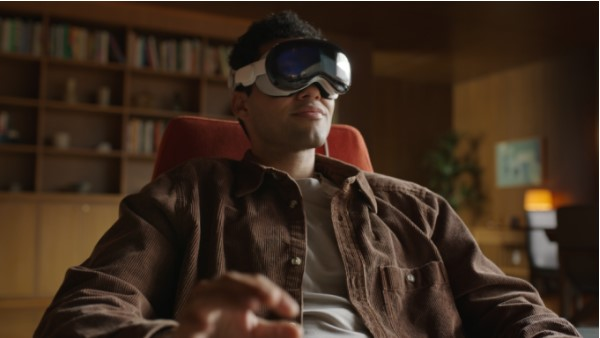
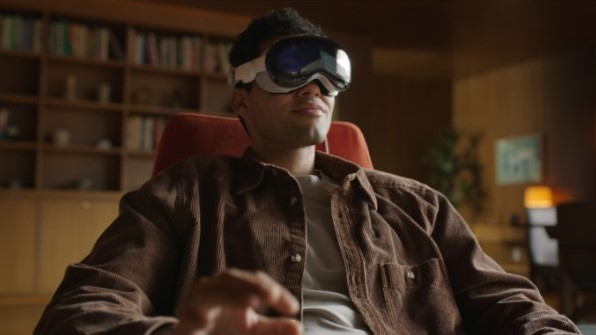
Information to "mudelid" added, pic.res. changed

diff --git a/mudelid.html b/mudelid.html
@@ -26,26 +26,54 @@
     </header>
     <main>
         <h1>Mudelid</h1>
+        <p>Sellel leheküljel antakse ülevaade erinevatest VR-mudelitest. Nagu alguses mainitud, ei ole VR ainult prillid, vaid ka muud seadmed. Kuid arvutite ja telefonide ülevaatamisel pole mõtet, sest neid teavad juba kõik. Palju huvitavam on vaadata erinevaid VR-prillide mudeleid. Valisime teile välja mõned mudelid, mis meie arvates väärivad tähelepanu.</p>
         
         <h2>HTC VIVE Pro 2</h2>
         <img src="pictures/htc-vive-pro-2.jpg" alt="vive.com" height="400" class="pilt">
-        <p>Hinnaklass: Kõrge</p>
-        <p>Koduleht: <a href="https://www.vive.com/us/product/vive-pro2/overview/">vive.com</a></p>
-
-        <p>Resolutsioon: 5K (2400x2400) (silma kohta)</p>
+        <p>Tüüp: Fully-Immersive VR</p>
+        <p>Hinnaklass: Kõrge (1539€)</p>
+        <p>Koduleht: <a href="https://www.vive.com/eu/product/vive-pro2-full-kit/overview/">vive.com</a></p>
+        <p>Resolutsioon: 4896 x 2448 (silma kohta)</p>
         <p>Värskendussagedus: 120 Hz</p>
-        <p>Liikumisandurid: 6DOF</p>
-        <p>Kaabli pikkus: 5 m (16 ft)<br>
-            Juhtmevaba: Ei</p>
-        <p>Lisaseadmed komplektis: Puuduvad</p>
+        <p>Kaabli pikkus: 5 m<br>
+            Juhtmevaba: Ei<br>
+            Portatiivne: Ei
+        </p>
         <p>Kõrvaklapid: Jah (On-Ear)<br>
             Mikrofon: Jah (Sisseehitatud)<br>
 
         </p>
         <p>Kirjeldus: HTC VIVE Pro 2 on võimekas VR peakomplekt, mille kõrge resolutsioon ja värskendussagedus tagavad tipptasemel kogemuse. Lisaks on mõeldud
-            ergonoomilisusele. VIVE Pro 2 on reguleeritav nii pea suuruse poolest kui ka silmade laiuse poolest, et vähendada silmade väsimust.<br>
-            HTC VIVE Pro 2 kahjuks räägib kõrge hind ning asjaolu, et peakomplektiga ei tule kaasa lisaseadmeid.
+            ergonoomilisusele. VIVE Pro 2 on reguleeritav nii pea suuruse poolest kui ka silmade laiuse poolest, et vähendada silmade väsimust. 
+            Kahjuks on selline võimas VR-komplekt väga kallis. Lisaks sellele, et komplekti hind on 1500 eurot, on vaja ka väga võimsat arvutit,
+            et nii suure resolutsiooniga mugavalt mängida. Aga kui te seda komplekti ostate, siis on teil kõige mugavam ja nauditavam kogemus,
+            mida VR-prillide turul saada saab.
         </p>
+
+        <h2>Meta Quest 3</h2>
+        <img src="pictures/Quest3.jpg" alt="https://www.ign.com/articles/meta-quest-3-review" height="400" class="pilt">
+        <p>Tüüp: Augmented AR/Fully-Immersive VR</p>
+        <p>Hinnaklass: Keskmine (~600€)</p>
+        <p>Koduleht: <a href="https://www.meta.com/quest/quest-3/">meta.com</a></p>
+        <p>Resolutsioon: 2400x2400 (silma kohta)</p>
+        <p>Värskendussagedus: 120 Hz</p>
+        <p>Kaabli pikkus: 5 m (on vaja eraldi osta)<br>
+            Juhtmevaba: Jah<br>
+            Portatiivne: Jah</p>
+        <p>Kõrvaklapid: Jah (Sisseehitatud)<br>
+            Mikrofon: Jah (Sisseehitatud)<br>
+        </p>
+        <p>Kirjeldus: Meta Quest 3 on Meta uus virtuaal- ja segareaalsuse peakomplekt, mis tuli välja paar kuud tagasi. Need on esimesed VR-prillid turul, 
+            mis võimaldavad VR-režiimide vahetamist. Sul on võimalus näha reaalset reaalsust ja samal ajal juhtida virtuaalreaalsust. 
+            Näiteks saab nõudepesu ajal YouTube'i sisse lülitada ja panna sellega aknast kuhugi, kuhu tahad. Meta poes on juba palju rakendusi ja mänge, 
+            mis võimaldavad segareaalsusega interakteeruda, alates joonistamisest kuni projekteerimiseni. Need prillid on ka täiesti portatiivsed: sa ei pea 
+            neid prille mängimiseks või millekski muuks kasutamiseks ühendama juhtmega oma arvutiga. Ja isegi kui sa tahad neid arvutiga ühendada, 
+            saad seda teha wifi kaudu. Kahjuks on neil prillidel ka mõned miinused. Esimene miinus on aku. See on halvasti optimiseeritud ja ilma 
+            laadimiseta töötavad prillid umbes 2-2,5 tundi. Isegi arvutiga ühendatuna tühjenevad prillid järk-järgult, kuigi väga aeglaselt. 
+            Portatiivses režiimis ei ole palju häid mänge: võimsaid mänge ilma arvutita need prillid käivitada ei suuda. Kaamerad, mille kaudu 
+            reaalset maailma vaadatakse, ei ole parimad: pilt on väga teraline. Aga kokkuvõtteks võib öelda, et need prillid on oma raha väärt, sest 
+            neil on palju rohkem plusse. </p>
+
         </main>
     </main>
 </body>

diff --git a/semi-immersive.html b/semi-immersive.html
@@ -30,14 +30,14 @@
 
         <h2>Mis on Semi-Immersive VR?</h2>
         <p>Semi-Immersive VR tehnoloogiad on sageli kasutusel hariduses ja väljaõppes, pakkudes interaktiivset kogemust, mis on piisavalt kaasahaarav, et õppija saaks sukelduda õppeainesse, kuid jätab alles teatud ühenduse reaalsusega. Näiteks võib kasutaja näha suurt projektsiooniekraani või mitmeid monitore, mis kuvavad virtuaalset keskkonda, samas kui ta tegelikult asub füüsilises ruumis, kus saab kasutada tavalisi sisestusseadmeid nagu klaviatuur või hiir. Eksempel Vormel auto simulaatorist, mis on hea alternatiiv ka päris sõitjatele, kes oma oskusi treenimiseks ja arendamiseks.</p>
-        <img src="pictures/formel.jpg" alt="semi-immersive näide formel" width="300" height="200">
+        <img src="pictures/formel.jpg" alt="semi-immersive näide formel" height="350" class="pilt">
 
         <h2>Kuidas Semi-Immersive VR töötab?</h2>
         <p>Tööpõhimõte on lihtne: luuakse visuaalne sukeldumine, kasutades suuri ekraane või projektoreid, mis näitavad interaktiivseid 3D-graafikaid. Kasutajad suhtlevad keskkonnaga erinevate sisestusseadmete abil, mis jäljendavad liikumist või tegevusi virtuaalmaailmas, ilma et nad peaksid kandma täielikku virtuaalreaalsuse peakomplekti.</p>
 
         <h2>Rakendused</h2>
         <p>Semi-Immersive VR-i rakendused on levinud õppesimulaatorites, nagu lennu- või sõidusimulaatorid, mis on mõeldud pilootide või autojuhtide väljaõppeks. Samuti on seda tehnoloogiat kasutatud arhitektuuris ja inseneriteadustes, et visualiseerida ehitisi või masinaid enne nende reaalset ehitamist. Eksempel lennusimulaatorist.</p>
-        <img src="pictures/lendur.jpg" alt="semi-immersive näide formel" width="300" height="200">
+        <img src="pictures/lendur.jpg" alt="semi-immersive näide formel" height="350" class="pilt">
 
         <h2>Tulevik</h2>
         <p>Semi-Immersive VR tehnoloogia areneb pidevalt ning selle kasutusalad laienevad. Semi-immersiivne VR võib muutuda haridus- ja koolitusprogrammide oluliseks osaks, pakkudes interaktiivseid ja kaasahaaravaid õpikogemusi.</p>

diff --git a/AR.html b/AR.html
@@ -33,13 +33,13 @@
 
         <h2>Kuidas Augmented VR töötab?</h2>
         <p>Augmented VR kasutab keerukat tehnoloogiat, sealhulgas ruumilist jälgimist, masinõpet ja andurtehnoloogiaid, et tuvastada kasutaja füüsilist keskkonda ja paigutada digitaalseid objekte reaalajas ja täpselt füüsilisse maailma. See loob illusiooni, et virtuaalsed objektid ongi osa reaalsest maailmast. Eksempel Apple Vision Pro-st </p>
-        <img src="pictures/apple1.jpg" alt="Augmented VR illustratsioon 3" width="300" height="200">
-        <img src="pictures/apple2.jpg" alt="Augmented VR illustratsioon 3" width="300" height="200">
+        <img src="pictures/apple1.jpg" alt="Augmented VR illustratsioon 3" height="350" class="pilt">
+        <img src="pictures/apple2.jpg" alt="Augmented VR illustratsioon 3" height="350" class="pilt">
 
         <h2>Rakendused</h2>
         <p>Augmented VR rakendused on väga mitmekesised, ulatudes haridusest ja väljaõppest kuni meelelahutuse ja mängudeni. Näiteks meditsiiniõppes võimaldab Augmented VR üliõpilastel harjutada operatsioone virtuaalsetel mudelitel, mis asetatakse nende füüsilisele töölaual. Samuti saavad mängud luua täiesti uusi kogemusi, ühendades reaalse maailma elemente mängusiseste väljakutsetega. Näide mängust Pokemon GO ja Google AR animals.</p>
-        <img src="pictures/pokemon.jpg" alt="Augmented VR illustratsioon" width="300" height="200">
-        <img src="pictures/google.jpg" alt="Augmented VR illustratsioon 2" width="300" height="200">
+        <img src="pictures/pokemon.jpg" alt="Augmented VR illustratsioon"  height="350" class="pilt">
+        <img src="pictures/google.jpg" alt="Augmented VR illustratsioon 2" height="350" class="pilt">
 
         <h2>Tulevik</h2>
         <p>Augmented VR on suhteliselt uus valdkond, kuid selle potentsiaal on tohutu. Tulevik võib tuua veelgi rohkem süvaimmersiivseid kogemusi ning muuta viisi, kuidas me töötame, õpime ja suhtleme.</p>

diff --git a/fully-immersive.html b/fully-immersive.html
@@ -29,7 +29,7 @@
         <p>Täieleikult interaktiivse virtuaalreaalsuse eesmärk on inimesele võimalikult reaalsuselähedane virtuaalne keskkond
             See tähendab, et stimuleeritakse inimese mitmeid meeli. Inimesele võiks seda kasutades tekkida tunne nagu ta viibiks selles virtuaalses keskkonnas.
         </p>
-        <img src="pictures/fully-immersive_pilt.jpg" alt="https://www.businesswire.com/news/home/20220901005278/en/World%E2%80%99s-Most-Immersive-Virtual-Reality-Experience-Sandbox-VR-is-Coming-Soon-to-Park-Meadows" height="300" class="pilt">
+        <img src="pictures/fully-immersive_pilt.jpg" alt="https://www.businesswire.com/news/home/20220901005278/en/World%E2%80%99s-Most-Immersive-Virtual-Reality-Experience-Sandbox-VR-is-Coming-Soon-to-Park-Meadows" height="350" class="pilt">
         <h1>Kuidas täielikult interaktiivne VR töötab?</h1>
         <p>Inimese silmade ette kinnitatakse pea külge kinnitatav ekraan (HMD- Head Mounted Display), mis katab täielikult inimese nägemise. Lisaks 
             võivad inimese küljes olla erinevad vidinad, mis tuvastavad liikumist. Tuvastatud liigutused saadetakse edasi arvutile.

diff --git a/collaborative.html b/collaborative.html
@@ -27,7 +27,7 @@
     <main>
         <h1>Mitme inimese VR</h1>
         <p>Tegemist on VR tüübiga, kus saavad mitu inimest korraga sama virtuaalreaalsusega liituda. See sobib näiteks koosolekuteks ja mitut inimest eeldavateks mängudeks.</p>
-        <img src="pictures/collaborative_VR_pilt.jpg" height="300" class="pilt" alt="https://blog.simlab-soft.com/what-is-vr-collaboration/">
+        <img src="pictures/collaborative_VR_pilt.jpg" height="350" class="pilt" alt="https://blog.simlab-soft.com/what-is-vr-collaboration/">
 
         
         <h2>Kasulikkus</h2>
